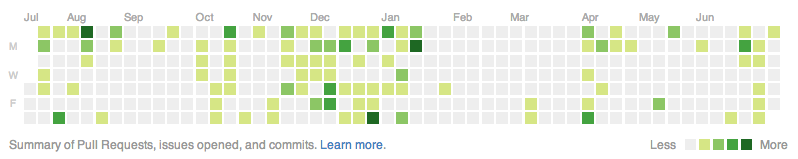
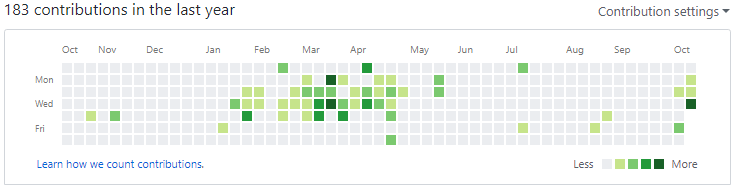
Updated Projects Section
-Added in a thumbnail for my gameplay mechanics project.
-Changed the stock github chart to a screen shot of mine.

diff --git a/index.html b/index.html
@@ -57,7 +57,8 @@
                         <h2 class="heading">About Me</h2>
                         <div class="content">
                             <p> CURRENTLY BEING EDITED </p>
-                            <p>I am a programming student at Abertay University in Dundee currently in my 4th year studying Bsc(Hons) Computer Games Applications Development. The current project I am working on is: Honours Project - Procedural Generation of Cities</p>    
+                            <p> I am a programming student at Abertay University in Dundee currently in my 4th year studying Bsc(Hons) Computer Games Applications Development. 
+                                The current project I am working on is: Honours Project - Procedural Generation of Cities.</p>    
                             <p>I am originally from Glasgow but I am currently situated in Dundee for the duration my studies. </p>                         
                         </div><!--//content-->
                     </div><!--//section-inner-->                 
@@ -84,7 +85,7 @@
                             <hr class="divider" />
                             <div class="item row">
                                 <a class="col-md-4 col-sm-4 col-xs-12" href="http://themes.3rdwavemedia.com/website-templates/responsive-bootstrap-theme-for-products-velocity/" target="_blank">
-                                <img class="img-responsive project-image" src="assets/images/projects/project-4.png" alt="project name" />
+                                <img class="img-responsive project-image" src="assets/images/projects/gameplay-mechanics.png" alt="Gameplay Mechanics" />
                                 </a>
                                 <div class="desc col-md-8 col-sm-8 col-xs-12">
                                     <h3 class="title"><a href="http://themes.3rdwavemedia.com/website-templates/responsive-bootstrap-theme-for-products-velocity/" target="_blank">Spell System - Gameplay Mechanics Module</a></h3>
